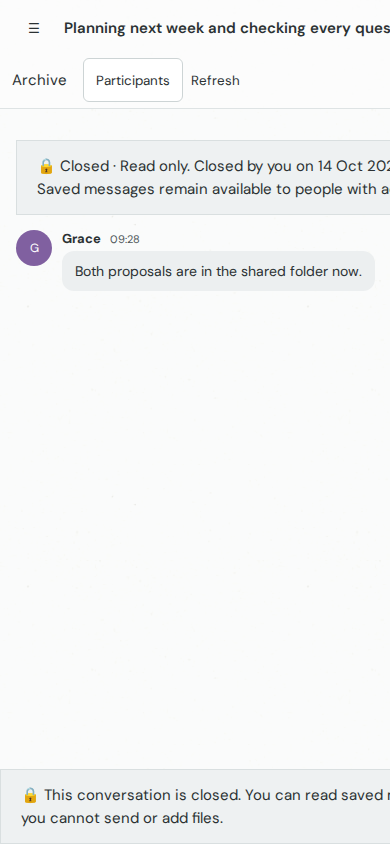
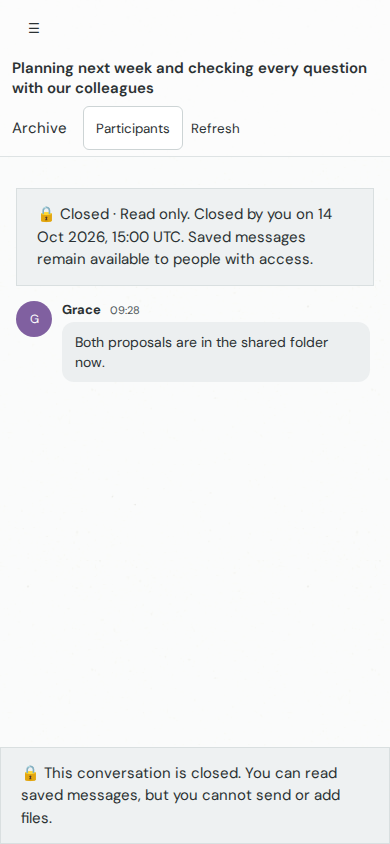
🔒 Keep saved files readable and fit closed chat on phones

Changed region(s): [[0.0308, 0.0, 1.0, 0.4005], [0.0615, 0.8934, 1.0, 0.9858], [0.1846, 0.4005, 0.8308, 0.4621]]

diff --git a/apps/web/src/app/chat/direct-chat.css b/apps/web/src/app/chat/direct-chat.css
@@ -21,7 +21,7 @@
   font-size: 12px; text-decoration: none; }
 .main { display: grid; grid-template-rows: 56px minmax(0, 1fr) auto;
   min-width: 0; min-height: 0; background: #f7f9f9; }
-.workspace-header { display: flex; align-items: center; gap: 10px; padding: 0 24px;
+.workspace-header { display: flex; align-items: center; gap: 10px; min-width: 0; padding: 0 24px;
   border-bottom: 1px solid #dee3e4; background: #fbfcfcd9; }
 .workspace-header h1 { min-width: 0; flex: 1; margin: 0; overflow: hidden; font-size: 15px;
   font-weight: 600; text-overflow: ellipsis; white-space: nowrap; }
@@ -95,7 +95,8 @@
   .workspace { grid-template-columns: minmax(0, 1fr); }
   .rail { display: none; }
   .workspace-header { flex-wrap: wrap; gap: 8px; min-height: 56px; padding: 6px 12px; }
-  .workspace-header h1 { flex: 1 0 calc(100% - 60px); }
+  .workspace-header h1 { flex: 1 1 100%; white-space: normal; overflow: visible;
+    overflow-wrap: anywhere; text-overflow: clip; }
   .navigation-toggle { display: inline-flex; align-items: center; justify-content: center; }
   .transcript { padding: 16px 16px 12px; }
   .composer-dock { padding: 10px 12px max(12px, env(safe-area-inset-bottom)); }

diff --git a/apps/web/src/app/chat/workspace.ts b/apps/web/src/app/chat/workspace.ts
@@ -503,13 +503,11 @@ export class Workspace implements OnInit {
     return captureView(this.capture.state(), this.chat.attachments());
   }
   protected canDownload(path: string): boolean {
-    if (this.isClosedConversation()) return false;
     const file = this.chat.attachments().find(attachment => attachment.path === path);
     // Only the uploader can read regular uploads. Session members can read screenshots.
     return !!file && (!!file.screenshot || file.uploadedBy === this.chat.memberId());
   }
   protected canDownloadPreview(path: string): boolean {
-    if (this.isClosedConversation()) return false;
     if (!hasAttachment(path, this.chat.attachments())) return false;
     // Keep downloads available for files made by this conversation's owner.
     const ownedAgentFile = isOwnedAgentFile(

diff --git a/apps/web/src/app/chat/workspace.html b/apps/web/src/app/chat/workspace.html
@@ -110,7 +110,9 @@
           && !chat.busy() && !chat.turns().length) {
           <section class="draft" aria-label="Empty conversation">
             <oc-shared-state kind="not_configured" message="No messages yet"
-              detail="Send a message to start this conversation." [showAction]="false" />
+              [detail]="isClosedConversation()
+                ? 'This session closed before anyone sent a message.'
+                : 'Send a message to start this conversation.'" [showAction]="false" />
           </section>
         }
         @for (turn of chat.turns(); track turn.author + turn.id) {

diff --git a/apps/web/src/app/chat/close-review.ts b/apps/web/src/app/chat/close-review.ts
@@ -11,7 +11,7 @@ export function closedByName(closedBy: string | undefined, memberId: string,
   colleagues: { memberId: string; displayName: string | null }[]): string {
   if (!closedBy) return 'a participant';
   if (closedBy === memberId) return 'you';
-  return colleagues.find(person => person.memberId === closedBy)?.displayName || closedBy;
+  return colleagues.find(person => person.memberId === closedBy)?.displayName || 'a participant';
 }
 
 function savedPending(): PendingClose | undefined {

diff --git a/docs/process/screen-p4-6-close/receipt.md b/docs/process/screen-p4-6-close/receipt.md
@@ -1,6 +1,6 @@
 # Close review screen receipt
 
-PASS: Captured the group chat and assistant session review and closed states at 1280 and 390 pixels with intercepted API replies. The real routes rendered without horizontal overflow. Visible close controls measured at least 44 pixels. Reduced motion stopped dialog decoration. Escape and Cancel returned focus. A double click sent one command, and reload checked its original id. Foreign chats revealed no title or close action. Closed screens kept saved history and had no composer after reload.
+PASS: Captured the group chat and assistant session review and closed states at 1280 and 390 pixels with intercepted API replies. The real routes rendered without horizontal overflow. The group title and both screens' close notices and footers fitted within their own areas. Visible close controls measured at least 44 pixels. Reduced motion stopped dialog decoration. Escape and Cancel returned focus. A double click sent one command, and reload checked its original id. Foreign chats revealed no title or close action. Closed screens kept saved history and had no composer after reload.
 
 Files: group-THR-14-1280.png, group-THR-15-1280.png, session-THR-14-1280.png, session-THR-15-1280.png, group-THR-14-390.png, group-THR-15-390.png, session-THR-14-390.png, session-THR-15-390.png.
 
